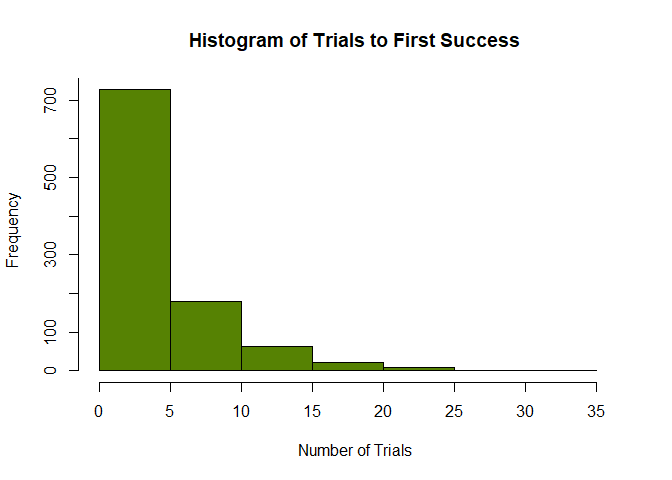
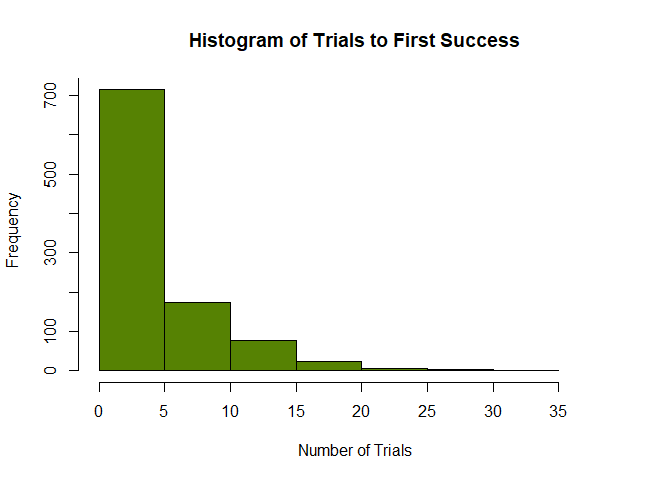
Add files via upload

diff --git a/FA6/SEC-1-FA6-GROUP-1-SIGUE,-JP-FA6.md b/FA6/SEC-1-FA6-GROUP-1-SIGUE,-JP-FA6.md
@@ -34,17 +34,17 @@
 
     cat("Mean:", round(mean_x, 2))
 
-    ## Mean: 4.13
+    ## Mean: 4.34
 
     cat("\nVariance:", round(var_x, 2))
 
     ## 
-    ## Variance: 21.9
+    ## Variance: 23.43
 
     cat("\nStandard Deviation:", round(sd_x, 2))
 
     ## 
-    ## Standard Deviation: 4.68
+    ## Standard Deviation: 4.84
 
 1.  Plot the histogram of the results.
 
@@ -55,7 +55,7 @@
     axis(side = 1, at = seq(0, max(x) + 5, by = 5))
     axis(side = 2, at = seq(0, 800, by = 100))
 
-![](unnamed-chunk-5-1.png)
+![](SEC-1-FA6-GROUP-1-SIGUE,-JP-FA6_files/figure-markdown_strict/unnamed-chunk-5-1.png)
 
 ## Hypergeometric Distribution. Consider a plant manufacturing IC chips of which 10% are expected to be defective. The chips are packed in boxes for export. Before transportation, a sample is drawn from each box. Estimate the probability that the sample contains more than 10% defectives, when:
 
